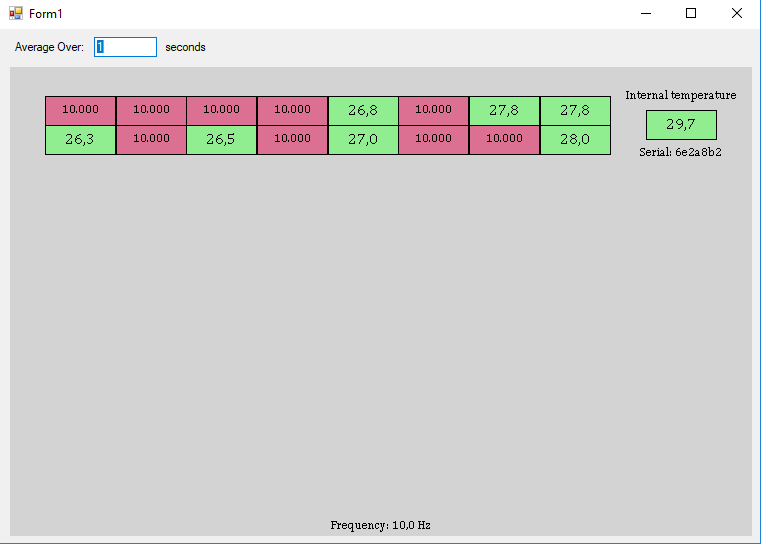
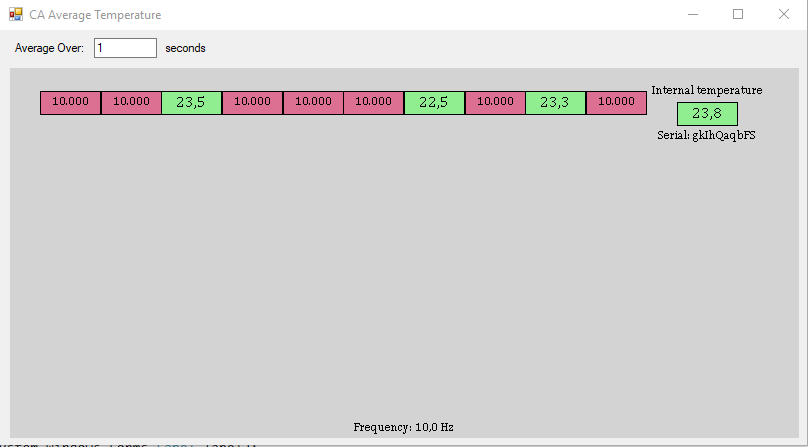
Update images and IO.conf file.

Changed region(s): [[0.0, 0.0, 1.0, 1.0], [0.9067, 0.0, 0.9369, 0.0291]]

diff --git a/CA_AverageTemperature/Form1.Designer.cs b/CA_AverageTemperature/Form1.Designer.cs
@@ -44,7 +44,7 @@
             | System.Windows.Forms.AnchorStyles.Right)));
             this.pictureBox1.Location = new System.Drawing.Point(10, 38);
             this.pictureBox1.Name = "pictureBox1";
-            this.pictureBox1.Size = new System.Drawing.Size(593, 362);
+            this.pictureBox1.Size = new System.Drawing.Size(789, 370);
             this.pictureBox1.TabIndex = 0;
             this.pictureBox1.TabStop = false;
             // 
@@ -84,13 +84,13 @@
             // 
             this.AutoScaleDimensions = new System.Drawing.SizeF(6F, 13F);
             this.AutoScaleMode = System.Windows.Forms.AutoScaleMode.Font;
-            this.ClientSize = new System.Drawing.Size(611, 407);
+            this.ClientSize = new System.Drawing.Size(807, 415);
             this.Controls.Add(this.label2);
             this.Controls.Add(this.textBox1);
             this.Controls.Add(this.label1);
             this.Controls.Add(this.pictureBox1);
             this.Name = "Form1";
-            this.Text = "Form1";
+            this.Text = "CA Average Temperature";
             this.FormClosing += new System.Windows.Forms.FormClosingEventHandler(this.Form1_FormClosing);
             ((System.ComponentModel.ISupportInitialize)(this.pictureBox1)).EndInit();
             this.ResumeLayout(false);

diff --git a/README.md b/README.md
@@ -1,42 +1,25 @@
 # CA_DataUploader
-C# software package to upload temperature data from CA temperature hub product
+C# software package to upload temperature data from CA temperature hub product. It can also be used for other type of data.
 
-This software is generally made for the 16 port K-type temperature sensors product from Copenhagen Atomics. 
-You can connect several of these to your computer via USB and have 64 or 128 temperature sensors upload data to a web graph in real time. 
+This software is generally made for the 10 port K-type temperature sensors product from Copenhagen Atomics. 
+You can connect several of these to your computer via USB and have 100+ temperature sensors upload data to a web graph in real time. 
+Sample rate e.g. 10 Hz for all sensors. 
 
 More information:
 
 http://www.copenhagenatomics.com/products.php
 
-http://www.copenhagenatomics.com/pdf/Temperature%20Data%20Logger%20Datasheet.pdf
+http://www.copenhagenatomics.com/pdf/Temperature%20Data%20Logger%20Datasheet.pdf (need update)
 
 ____
 
 ## How to run this datalogger from RaspberryPi  Raspbain:
 
-You first need to install Mono
+You first need to install Mono  (.Net Core 3.0 coming soon)
 
 First run the 4 lines from this file:
 
 https://www.mono-project.com/download/stable/#download-lin-raspbian
-
-Then you need to increase your swap file, described here:
-
-https://stackoverflow.com/questions/53214618/failed-to-precompile-microsoft-codeanalysis-csharp-on-armbian-stretch
-
-I did it like this:
-> sudo nano /etc/dphys-swapfile
-
-then I change CONF_SWAPFILE to 500
-
-save and exit with CTRL+o, CTRL+x
-
-> sudo dphys-swapfile setup
-
-> sudo /etc/init.d/dphys-swapfile stop
-
-> sudo /etc/init.d/dphys-swapfile start
-
 
 Then I run
  
